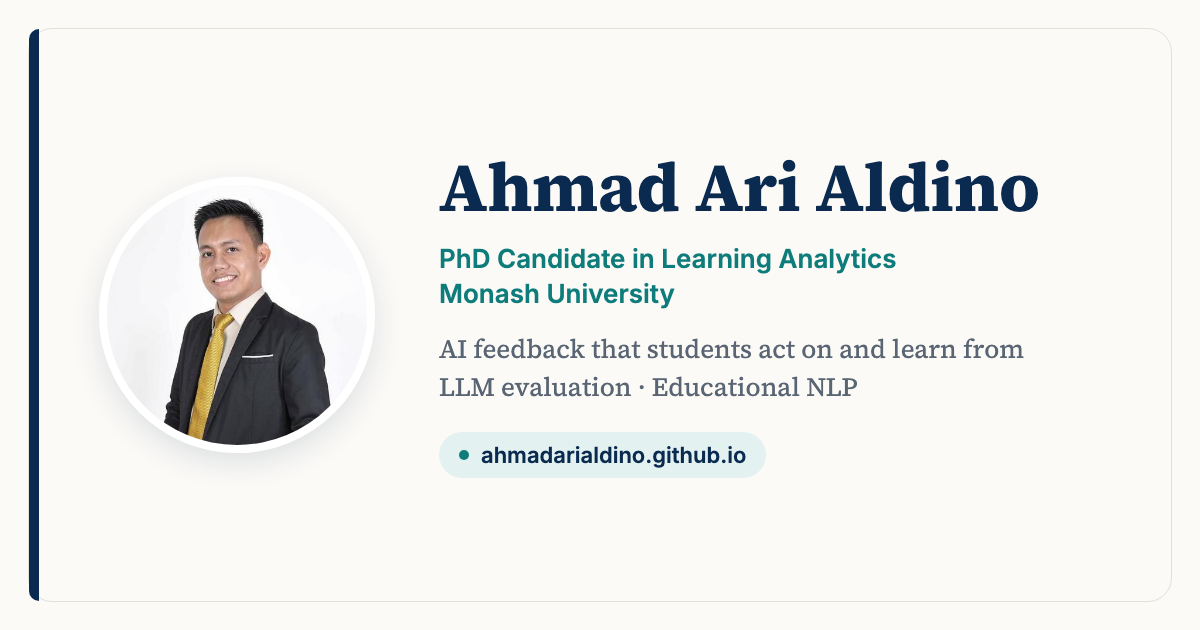
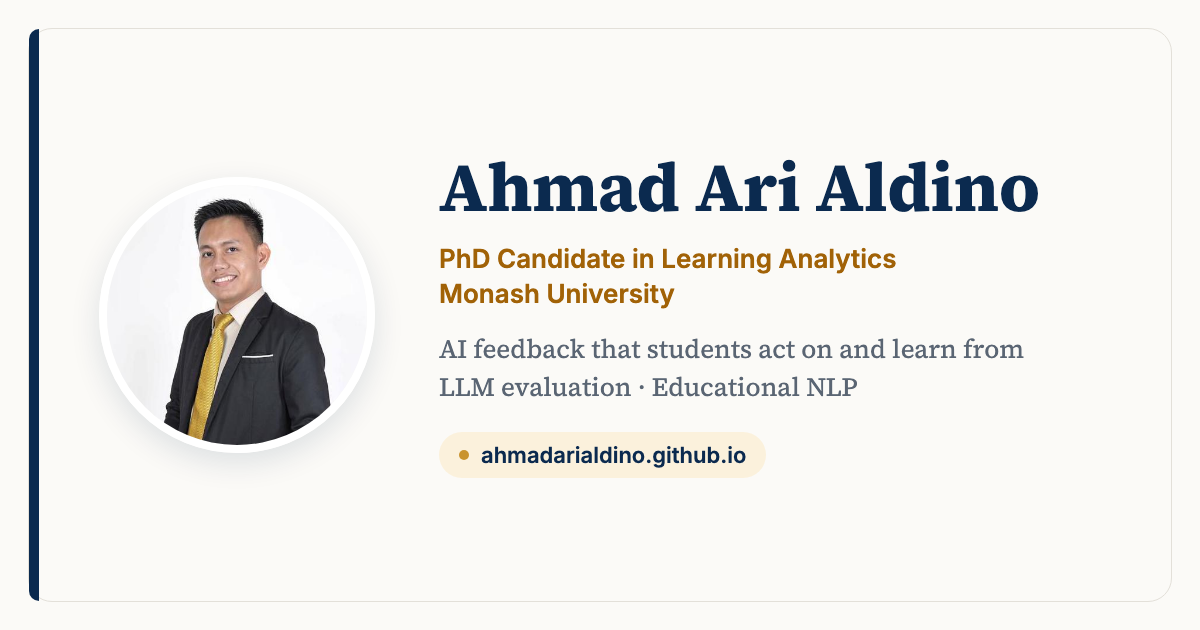
Switch accent colour to navy and gold

Changed region(s): [[0.3392, 0.3921, 0.74, 0.4524], [0.3392, 0.4524, 0.5858, 0.4825]]

diff --git a/style.css b/style.css
@@ -5,9 +5,9 @@
   --bg: #fbfaf7;
   --card: #ffffff;
   --navy: #0b2a4f;
-  --accent: #0e7c7b;
-  --accent-ink: #0a5c5b;
-  --accent-soft: #e3f2f1;
+  --accent: #a16207;
+  --accent-ink: #7c4a03;
+  --accent-soft: #fbf1dc;
   --green: #1f7a4d;
   --green-soft: #e6f4ec;
   --amber: #8a5300;
@@ -75,7 +75,7 @@ p { margin: 0 0 12px; }
 .studies p { margin: 6px 0 8px; font-size: 15px; color: var(--muted); }
 .tag { display: inline-block; font-size: 12px; font-weight: 600; padding: 3px 9px; border-radius: 6px; }
 .tag.pub { background: var(--accent-soft); color: var(--accent-ink); }
-.tag.review { background: var(--amber-soft); color: var(--amber); }
+.tag.review { background: #e8eef5; color: var(--navy); }
 .tag.prep { background: #eef0f3; color: var(--muted); }
 .note { margin-top: 16px; padding: 14px 16px; background: var(--card); border: 1px solid var(--line); border-radius: 10px; font-size: 15px; }
 

diff --git a/index.html b/index.html
@@ -17,7 +17,7 @@
 <link rel="preconnect" href="https://fonts.googleapis.com">
 <link rel="preconnect" href="https://fonts.gstatic.com" crossorigin>
 <link href="https://fonts.googleapis.com/css2?family=Inter:wght@400;500;600;700&family=Source+Serif+4:opsz,wght@8..60,400;8..60,600;8..60,700&display=swap" rel="stylesheet">
-<link rel="stylesheet" href="style.css?v=20261103b">
+<link rel="stylesheet" href="style.css?v=20261103c">
 <script type="application/ld+json">
 {
   "@context": "https://schema.org",
